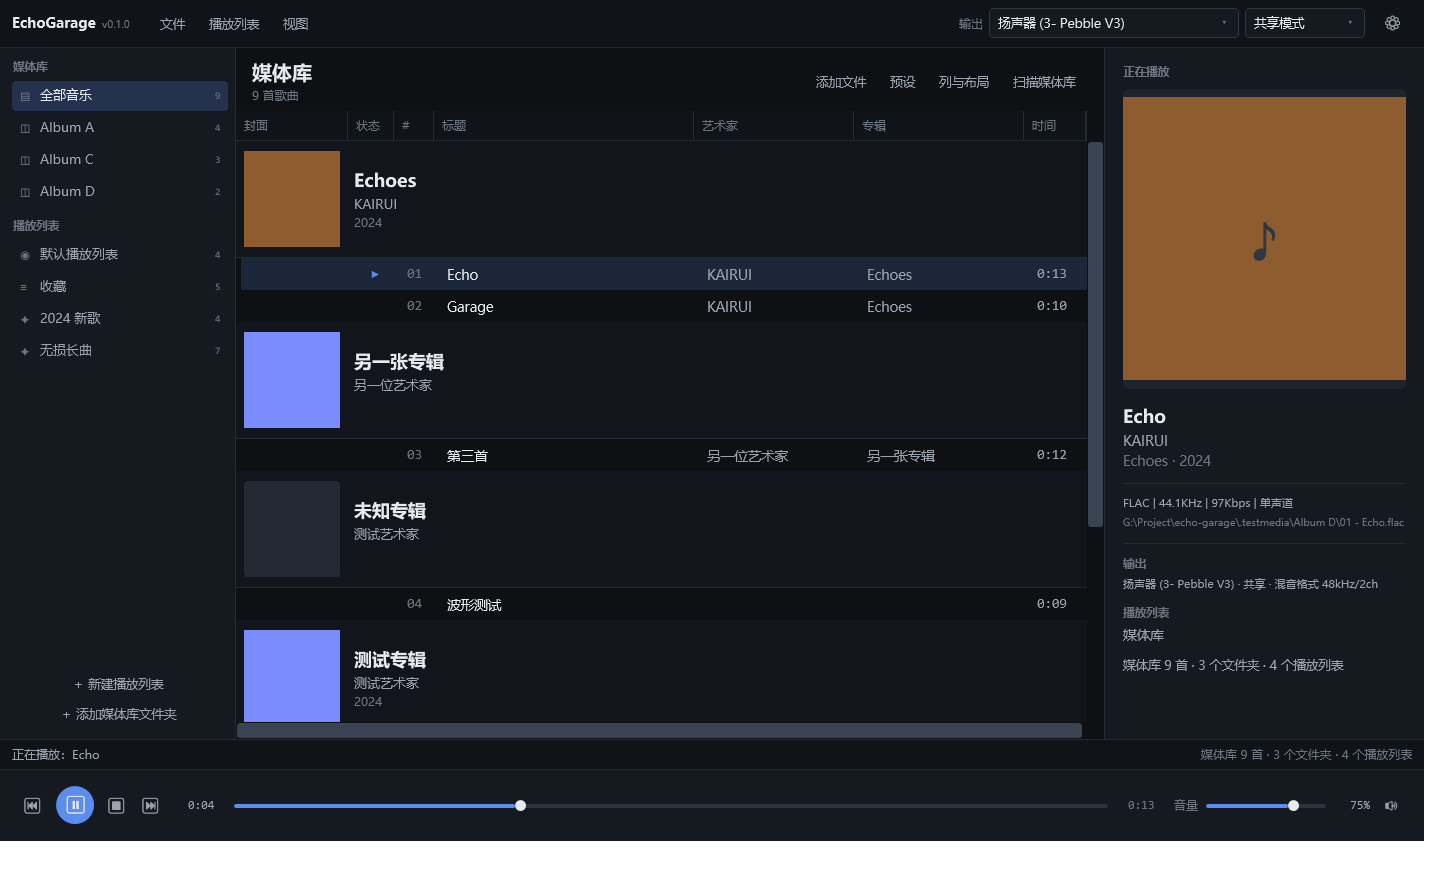
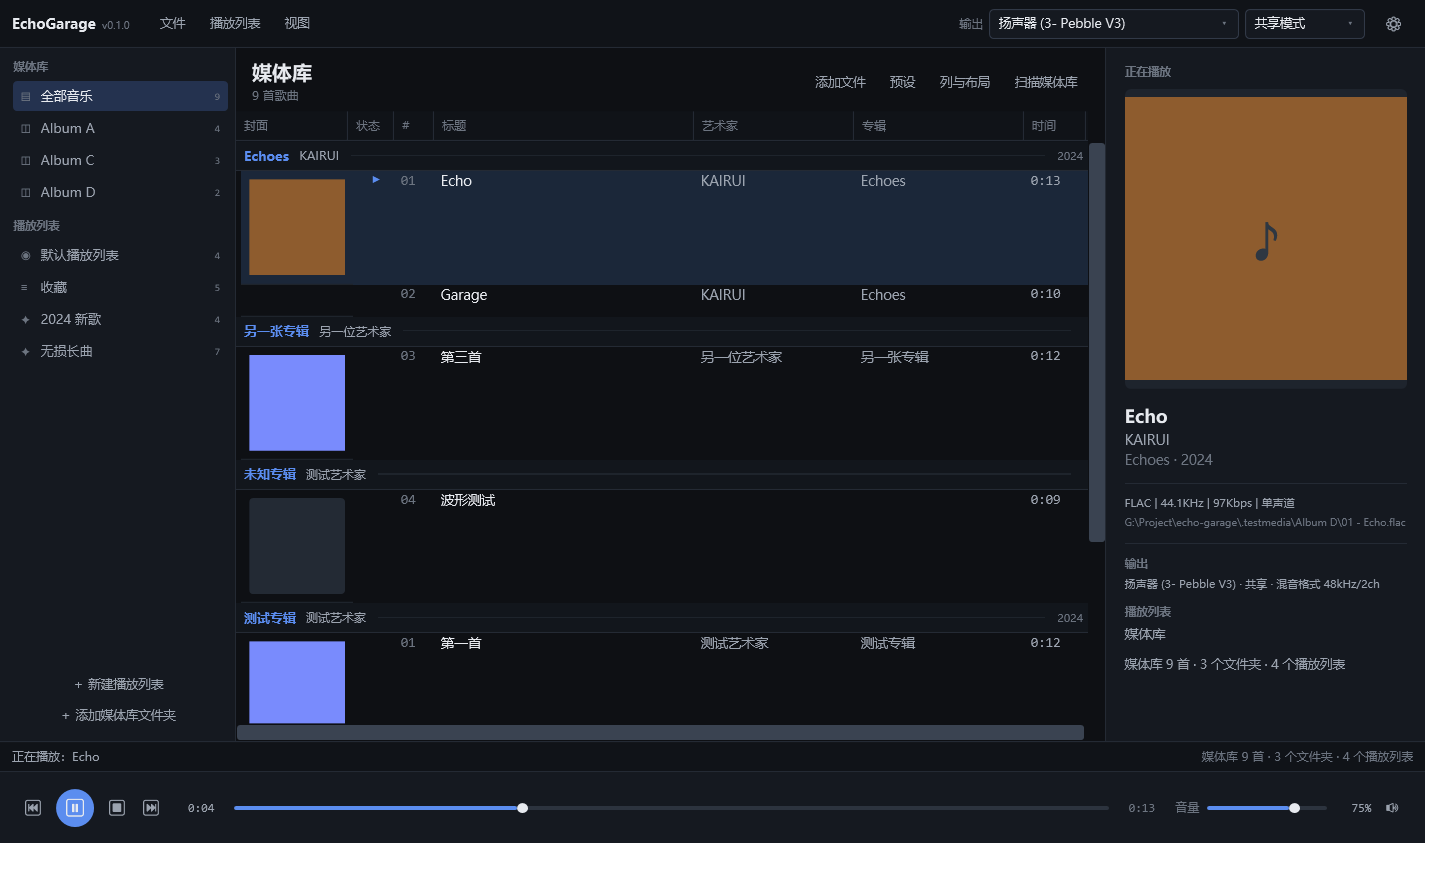
feat: 分组列表改为单行专辑头 + 封面与歌曲列表并列 + 行分割线
- 分组头压缩为 30px 单行：专辑名（Accent）/ 专辑艺术家 / 分隔线 / 年份（右对齐），
  不再在头部放封面，信息密度更高。
- 封面移到每个专辑第一行歌曲的“封面”格（IsAlbumGroupStart）：该行高度 =
  GroupCoverSize + 17，封面与歌曲列表并列，其余行仍为 32px；封面列使用
  Cell.CoverGrouped + GroupCoverCell（Padding=0），大图 512px 解码、卸载时释放。
- 分组头与普通行之间不再有 96px 封面块，分组标题一行即可看清专辑信息。
- 歌曲之间增加 1px 浅色分割线（DataGridCell 底边，主题令牌 RowSeparatorBrush，
  浅色/深色各一套），分组头保留 1px 分隔线。
- README / KB-008 同步新布局说明；更新 main/dark 截图。

diff --git a/src/EchoGarage.App/Views/MainWindow.xaml b/src/EchoGarage.App/Views/MainWindow.xaml
@@ -28,6 +28,29 @@
             </Border>
         </DataTemplate>
 
+        <!-- Grouped mode: the first row of each album is taller and carries the album cover,
+             so the cover sits beside the song list instead of in the group header. -->
+        <DataTemplate x:Key="Cell.CoverGrouped">
+            <Border x:Name="Cover"
+                    Width="{Binding DataContext.GroupCoverSize, RelativeSource={RelativeSource AncestorType=Window}}"
+                    Height="{Binding DataContext.GroupCoverSize, RelativeSource={RelativeSource AncestorType=Window}}"
+                    Margin="8" CornerRadius="4" Background="{DynamicResource CoverPlaceholderBrush}"
+                    ClipToBounds="True" HorizontalAlignment="Left" VerticalAlignment="Center"
+                    Visibility="Collapsed">
+                <Image Source="{Binding GroupCoverImage}" Stretch="UniformToFill"
+                       RenderOptions.BitmapScalingMode="HighQuality" />
+            </Border>
+            <DataTemplate.Triggers>
+                <DataTrigger Binding="{Binding IsAlbumGroupStart}" Value="True">
+                    <Setter TargetName="Cover" Property="Visibility" Value="Visible" />
+                </DataTrigger>
+            </DataTemplate.Triggers>
+        </DataTemplate>
+
+        <Style x:Key="GroupCoverCell" TargetType="DataGridCell" BasedOn="{StaticResource {x:Type DataGridCell}}">
+            <Setter Property="Padding" Value="0" />
+        </Style>
+
         <DataTemplate x:Key="Cell.Status">
             <TextBlock Text="{Binding StatusGlyph}" Foreground="{DynamicResource AccentBrush}" FontSize="10"
                        HorizontalAlignment="Center" />
@@ -354,28 +377,31 @@
                         <GroupStyle>
                             <GroupStyle.HeaderTemplate>
                                 <DataTemplate>
-                                    <Border Background="{DynamicResource GroupHeaderBackgroundBrush}" BorderBrush="{DynamicResource BorderBrush}"
-                                            BorderThickness="0,0,0,1" Padding="8,10" Loaded="OnGroupHeaderLoaded"
-                                            Unloaded="OnGroupHeaderUnloaded">
-                                        <StackPanel Orientation="Horizontal">
-                                            <Border Width="{Binding DataContext.GroupCoverSize, RelativeSource={RelativeSource AncestorType=Window}}"
-                                                    Height="{Binding DataContext.GroupCoverSize, RelativeSource={RelativeSource AncestorType=Window}}"
-                                                    CornerRadius="4" Background="{DynamicResource CoverPlaceholderBrush}"
-                                                    ClipToBounds="True" Margin="0,0,14,0">
-                                                <Image Source="{Binding Items[0].GroupCoverImage}" Stretch="UniformToFill"
-                                                       RenderOptions.BitmapScalingMode="HighQuality" />
-                                            </Border>
-                                            <StackPanel VerticalAlignment="Center">
-                                                <TextBlock Text="{Binding Items[0].AlbumGroupTitle}" FontSize="18"
-                                                           FontWeight="SemiBold" TextTrimming="CharacterEllipsis" />
-                                                <TextBlock Text="{Binding Items[0].AlbumGroupArtist}"
-                                                           Foreground="{DynamicResource TextSecondaryBrush}" FontSize="13"
-                                                           Margin="0,4,0,0" TextTrimming="CharacterEllipsis" />
-                                                <TextBlock Text="{Binding Items[0].AlbumGroupYear}"
-                                                           Foreground="{DynamicResource TextMutedBrush}" FontSize="12"
-                                                           Margin="0,2,0,0" />
-                                            </StackPanel>
-                                        </StackPanel>
+                                    <Border Background="{DynamicResource GroupHeaderBackgroundBrush}"
+                                            BorderBrush="{DynamicResource BorderBrush}"
+                                            BorderThickness="0,0,0,1" Padding="8,0" Height="30">
+                                        <Grid>
+                                            <Grid.ColumnDefinitions>
+                                                <ColumnDefinition Width="Auto" />
+                                                <ColumnDefinition Width="Auto" />
+                                                <ColumnDefinition Width="*" />
+                                                <ColumnDefinition Width="Auto" />
+                                            </Grid.ColumnDefinitions>
+                                            <TextBlock Grid.Column="0" Text="{Binding Items[0].AlbumGroupTitle}"
+                                                       FontSize="13" FontWeight="SemiBold"
+                                                       Foreground="{DynamicResource AccentBrush}"
+                                                       VerticalAlignment="Center" TextTrimming="CharacterEllipsis" />
+                                            <TextBlock Grid.Column="1" Text="{Binding Items[0].AlbumGroupArtist}"
+                                                       Foreground="{DynamicResource TextSecondaryBrush}" FontSize="12"
+                                                       Margin="10,0,0,0" VerticalAlignment="Center"
+                                                       TextTrimming="CharacterEllipsis" />
+                                            <Border Grid.Column="2" Height="1" Margin="12,0"
+                                                    Background="{DynamicResource RowSeparatorBrush}"
+                                                    VerticalAlignment="Center" />
+                                            <TextBlock Grid.Column="3" Text="{Binding Items[0].AlbumGroupYear}"
+                                                       Foreground="{DynamicResource TextMutedBrush}" FontSize="11"
+                                                       VerticalAlignment="Center" />
+                                        </Grid>
                                     </Border>
                                 </DataTemplate>
                             </GroupStyle.HeaderTemplate>

diff --git a/src/EchoGarage.App/Resources/Controls.xaml b/src/EchoGarage.App/Resources/Controls.xaml
@@ -598,18 +598,26 @@
             <DataTrigger Binding="{Binding IsMissing}" Value="True">
                 <Setter Property="Opacity" Value="0.55" />
             </DataTrigger>
+            <DataTrigger Binding="{Binding IsAlbumGroupStart}" Value="True">
+                <!-- Taller row whose cover cell carries the album art next to the song list. -->
+                <Setter Property="Height"
+                        Value="{Binding DataContext.GroupCoverRowHeight, RelativeSource={RelativeSource AncestorType=DataGrid}}" />
+            </DataTrigger>
         </Style.Triggers>
     </Style>
 
     <Style TargetType="DataGridCell">
         <Setter Property="Background" Value="Transparent" />
         <Setter Property="BorderThickness" Value="0" />
+        <Setter Property="Padding" Value="8,0" />
         <Setter Property="Foreground" Value="{DynamicResource TextPrimaryBrush}" />
         <Setter Property="FocusVisualStyle" Value="{x:Null}" />
         <Setter Property="Template">
             <Setter.Value>
                 <ControlTemplate TargetType="DataGridCell">
-                    <Border Background="{TemplateBinding Background}" Padding="8,0" SnapsToDevicePixels="True">
+                    <Border Background="{TemplateBinding Background}" Padding="{TemplateBinding Padding}"
+                            BorderBrush="{DynamicResource RowSeparatorBrush}" BorderThickness="0,0,0,1"
+                            SnapsToDevicePixels="True">
                         <ContentPresenter VerticalAlignment="Center" />
                     </Border>
                 </ControlTemplate>

diff --git a/src/EchoGarage.App/Resources/Themes/DarkTheme.xaml b/src/EchoGarage.App/Resources/Themes/DarkTheme.xaml
@@ -24,6 +24,7 @@
     <SolidColorBrush x:Key="PanelAltBackgroundBrush" Color="{StaticResource PanelAltBackgroundColor}" />
     <SolidColorBrush x:Key="HeaderBackgroundBrush" Color="{StaticResource HeaderBackgroundColor}" />
     <SolidColorBrush x:Key="BorderBrush" Color="{StaticResource BorderColor}" />
+    <SolidColorBrush x:Key="RowSeparatorBrush" Color="#1E242C" />
     <SolidColorBrush x:Key="BorderStrongBrush" Color="{StaticResource BorderStrongColor}" />
     <SolidColorBrush x:Key="TextPrimaryBrush" Color="{StaticResource TextPrimaryColor}" />
     <SolidColorBrush x:Key="TextSecondaryBrush" Color="{StaticResource TextSecondaryColor}" />

diff --git a/src/EchoGarage.App/Resources/Themes/LightTheme.xaml b/src/EchoGarage.App/Resources/Themes/LightTheme.xaml
@@ -23,6 +23,7 @@
     <SolidColorBrush x:Key="PanelAltBackgroundBrush" Color="{StaticResource PanelAltBackgroundColor}" />
     <SolidColorBrush x:Key="HeaderBackgroundBrush" Color="{StaticResource HeaderBackgroundColor}" />
     <SolidColorBrush x:Key="BorderBrush" Color="{StaticResource BorderColor}" />
+    <SolidColorBrush x:Key="RowSeparatorBrush" Color="#EDF0F4" />
     <SolidColorBrush x:Key="BorderStrongBrush" Color="{StaticResource BorderStrongColor}" />
     <SolidColorBrush x:Key="TextPrimaryBrush" Color="{StaticResource TextPrimaryColor}" />
     <SolidColorBrush x:Key="TextSecondaryBrush" Color="{StaticResource TextSecondaryColor}" />

diff --git a/src/EchoGarage.App/Views/MainWindow.xaml.cs b/src/EchoGarage.App/Views/MainWindow.xaml.cs
@@ -221,15 +221,16 @@ public partial class MainWindow : Window
                 continue;
             }
 
-            var cellTemplate = TryFindResource("Cell." + ToPascalCase(column.Key)) as DataTemplate;
+            var isGroupedCover = _vm.GroupByAlbum &&
+                                 string.Equals(column.Key, "cover", StringComparison.OrdinalIgnoreCase);
+            var templateKey = isGroupedCover ? "Cell.CoverGrouped" : "Cell." + ToPascalCase(column.Key);
+            var cellTemplate = TryFindResource(templateKey) as DataTemplate;
             if (cellTemplate is null)
             {
                 continue;
             }
 
             SortPropertyMap.TryGetValue(column.Key, out var sortProperty);
-            var isGroupedCover = _vm.GroupByAlbum &&
-                                 string.Equals(column.Key, "cover", StringComparison.OrdinalIgnoreCase);
             // The cover column carries the album cover plus equal left/right insets so the
             // cover lines up with the column header padding instead of spilling over the
             // column divider.
@@ -251,7 +252,8 @@ public partial class MainWindow : Window
                     : 1400,
                 SortMemberPath = sortProperty,
                 CanUserSort = descriptor.Sortable && sortProperty is not null,
-                IsReadOnly = true
+                IsReadOnly = true,
+                CellStyle = isGroupedCover ? TryFindResource("GroupCoverCell") as Style : null
             };
 
             if (sortProperty is not null &&
@@ -438,9 +440,16 @@ public partial class MainWindow : Window
         if (e.Row.DataContext is TrackRowViewModel row)
         {
             row.IsSelected = TrackGrid.SelectedItems.Contains(row);
-            if (!_vm.GroupByAlbum)
+            if (_vm.GroupByAlbum)
             {
-                // Grouped mode shows one large album cover and hides the per-row cover.
+                // Grouped mode: only the first row of an album shows the (large) cover.
+                if (row.IsAlbumGroupStart)
+                {
+                    _ = _vm.LoadGroupCoverAsync(row);
+                }
+            }
+            else
+            {
                 _ = _vm.LoadRowCoverAsync(row);
             }
         }
@@ -451,32 +460,7 @@ public partial class MainWindow : Window
         if (e.Row.DataContext is TrackRowViewModel row)
         {
             row.CoverImage = null;
-        }
-    }
-
-    private void OnGroupHeaderLoaded(object sender, RoutedEventArgs e)
-    {
-        if (sender is FrameworkElement { DataContext: CollectionViewGroup group })
-        {
-            var first = group.Items.OfType<TrackRowViewModel>().FirstOrDefault();
-            if (first is not null)
-            {
-                _ = _vm.LoadGroupCoverAsync(first);
-            }
-        }
-    }
-
-    private void OnGroupHeaderUnloaded(object sender, RoutedEventArgs e)
-    {
-        // Release the large header cover while the group is virtualized away; it will be
-        // reloaded from the bounded image cache when the header becomes visible again.
-        if (sender is FrameworkElement { DataContext: CollectionViewGroup group })
-        {
-            var first = group.Items.OfType<TrackRowViewModel>().FirstOrDefault();
-            if (first is not null)
-            {
-                first.GroupCoverImage = null;
-            }
+            row.GroupCoverImage = null;
         }
     }
 

diff --git a/src/EchoGarage.App/ViewModels/MainViewModel.cs b/src/EchoGarage.App/ViewModels/MainViewModel.cs
@@ -126,8 +126,15 @@ public sealed partial class MainViewModel : ObservableObject, IDisposable
     [ObservableProperty]
     private double _groupCoverSize = PlaylistViewLayout.DefaultGroupCoverSize;
 
-    partial void OnGroupCoverSizeChanged(double value) =>
+    /// <summary>Height of the first row of an album group: cover size plus 8px top/bottom
+    /// margins and the cell's 1px bottom separator.</summary>
+    public double GroupCoverRowHeight => GroupCoverSize + 17;
+
+    partial void OnGroupCoverSizeChanged(double value)
+    {
+        OnPropertyChanged(nameof(GroupCoverRowHeight));
         _host.Logger.Debug($"Group cover size: {value:F1}");
+    }
 
     partial void OnCurrentLayoutChanged(PlaylistViewLayout value)
     {
@@ -603,6 +610,34 @@ public sealed partial class MainViewModel : ObservableObject, IDisposable
         }
 
         _tracksView.Refresh();
+        UpdateAlbumGroupStarts();
+    }
+
+    /// <summary>
+    /// Marks the first row of each album group. That row is taller and renders the album
+    /// cover in its cover cell, so the cover sits beside the song list instead of inside
+    /// the group header (group headers are now a single compact line).
+    /// </summary>
+    private void UpdateAlbumGroupStarts()
+    {
+        foreach (var row in Tracks)
+        {
+            row.IsAlbumGroupStart = false;
+        }
+
+        if (!GroupByAlbum)
+        {
+            return;
+        }
+
+        foreach (var group in _tracksView.Groups)
+        {
+            if (group is CollectionViewGroup { Items.Count: > 0 } viewGroup &&
+                viewGroup.Items[0] is TrackRowViewModel first)
+            {
+                first.IsAlbumGroupStart = true;
+            }
+        }
     }
 
     partial void OnGroupByAlbumChanged(bool value)

diff --git a/src/EchoGarage.App/ViewModels/TrackRowViewModel.cs b/src/EchoGarage.App/ViewModels/TrackRowViewModel.cs
@@ -28,6 +28,10 @@ public sealed partial class TrackRowViewModel : ObservableObject
     [ObservableProperty]
     private bool _isSelected;
 
+    /// <summary>True for the first visible row of an album group (it carries the album cover).</summary>
+    [ObservableProperty]
+    private bool _isAlbumGroupStart;
+
     public TrackRowViewModel(Track track, int rowNumber)
     {
         Track = track;

diff --git a/docs/kb/KB-008-grouped-cover-and-layout-persistence.md b/docs/kb/KB-008-grouped-cover-and-layout-persistence.md
@@ -1,35 +1,33 @@
-# KB-008：分组封面尺寸、布局持久化、进度条空状态与音量/静音
+# KB-008：分组列表布局（封面+单行标签+分割线）、布局持久化、进度条空状态与音量/静音
 
 - 状态：已批准（Accepted，2026-11-10，owner 指示记录为 KB，不需要 ADR；2026-11-11 更新）
 - 日期：2026-11-10
 - 关联：ADR-005（播放列表显示格式）、ADR-006（配置与媒体库分离）
-- 适用范围：`PlaylistViewLayout`、`MainWindow` 列构建与分组头、底部进度条与音量区
+- 适用范围：`PlaylistViewLayout`、`MainWindow` 列构建 / 分组头 / 行模板、底部进度条与音量区
 
-## 1. 分组封面尺寸（GroupCoverSize）
+## 1. 分组列表布局（v2：单行标签 + 封面与歌曲列表并列）
 
-- `PlaylistViewLayout` 增加 `GroupCoverSize`（double，默认 96，范围 48–320），表示**实际显示的
-  封面边长**，随布局一起序列化：媒体库视图存 `settings.json` 的 `libraryLayout`，普通播放列表
-  存各自 `ViewLayoutJson`；旧 JSON 没有该字段时按 96 处理（`ViewLayoutFactory.Normalize` 里
-  `<= 0` 视为缺失，超出范围则 clamp）。
-- 分组模式下封面列宽 = `GroupCoverSize + 16`（左右各 8px 内边距）；列的最小 / 最大宽度相应为
-  64 / 336。拖动表头右缘时 `GroupCoverSize = 列宽 - 16`。该值**不写回**普通模式下的封面列宽，
-  取消分组后逐行封面仍用原列宽（行内图片固定 24px，与行高 32px 匹配）。
-- 对齐：分组头模板 `Padding="8,10"`，与 `DataGridColumnHeader` 的 `Padding="8,0"` 一致，因此
-  封面在封面列内的左右留白相等，正好和“封面”表头文字对齐，右缘不会越过分栏线。
-- 实时联动：`MainWindow` 用 `DependencyPropertyDescriptor.FromProperty(DataGridColumn.WidthProperty, ...)`
-  监听封面列的宽度变化，写入 `MainViewModel.GroupCoverSize`（ObservableProperty）；
-  分组头模板的封面 `Border` 通过
-  `{Binding DataContext.GroupCoverSize, RelativeSource={RelativeSource AncestorType=Window}}`
-  绑定宽高，所以拖动时封面跟手变化。
-- 持久化：拖动停下后 600ms 防抖调用 `PersistCurrentLayout(CaptureLayoutFromGrid())`；
-  `CaptureLayoutFromGrid` 在分组模式下把 `封面列 ActualWidth - 16` 写进 `GroupCoverSize`，
-  普通列宽照旧。关闭窗口 / 切换播放列表仍走原有保存路径。
-- 列与布局对话框只编辑列，`GroupCoverSize` 原样透传；应用预设时保留当前值（预设不包含
-  封面尺寸，`ColumnPreset` 未增加字段）。
-- 分组头封面单独解码：`TrackRowViewModel.GroupCoverImage` 以 512px 请求
-  （`CoverImageService` 按 `尺寸|coverKey` 缓存，LRU 300），在 320 DIP、150% DPI 下仍清晰；
-  分组头虚拟化卸载时（模板根 `Border.Unloaded`）清空引用，避免滚过所有专辑后大图常驻。
-- 注意：封面调大后列总宽可能超过窗口，出现横向滚动条属正常；用户可加宽窗口或隐藏其他列。
+用户反馈旧分组头“封面 96px + 标题/艺术家/年份 3 行堆叠”信息密度太低，目标是：
+
+- 分组头只占一行：专辑名（Accent 色、SemiBold）+ 专辑艺术家 + 分隔线 + 年份（右对齐），
+  高 30px，底部 1px 分割线；不再在分组头里放封面。
+- 封面放到该专辑**第一行歌曲**的“封面”格中，与歌曲列表并列。该行高度 =
+  `GroupCoverSize + 17`（上下各 8px 边距 + 1px 底部分割线），其余行仍为 32px；
+  这样封面在视觉上位于分组标题下方、紧挨歌曲列表，而不是把整块头部撑高。
+- 实现：`MainViewModel.ApplySortAndGrouping()` 每次刷新后调用
+  `UpdateAlbumGroupStarts()`，遍历 `_tracksView.Groups` 把每组第一行的
+  `TrackRowViewModel.IsAlbumGroupStart` 置 true；`Controls.xaml` 的 `DataGridRow`
+  样式用 `DataTrigger` 命中该属性，把行高绑定到 `GroupCoverRowHeight`。
+- 封面列在分组模式下使用 `Cell.CoverGrouped` 模板（`IsAlbumGroupStart` 时显示
+  `GroupCoverImage`，尺寸 512px 解码）；`GroupCoverCell` 样式把 Cell 的 Padding 设为 0，
+  封面 Border `Margin="8"` 正好落在“封面”列内。
+- 封面尺寸仍由“封面”列宽驱动：`GroupCoverSize` 表示封面实际显示尺寸，
+  列宽 = `GroupCoverSize + 16`（左右各 8px 内边距）；拖动列宽时
+  `GroupCoverSize = 列宽 - 16`。范围 48–320，随播放列表布局持久化。
+- 歌曲之间加 1px 浅色分割线：`DataGridCell` 模板的 Border 使用
+  `BorderBrush="{DynamicResource RowSeparatorBrush}" BorderThickness="0,0,0,1"`；
+  `RowSeparatorBrush` 在两个主题字典中分别定义（浅色 `#EDF0F4`、深色 `#1E242C`）。
+- 封面调大后列总宽可能超过窗口，出现横向滚动条属正常。
 
 ## 2. 启动时布局被默认值覆盖的坑
 
@@ -53,15 +51,14 @@
   绑定它；空闲时 `Maximum=1, Value=0`，Thumb 在最左侧、轨道为空。`DurationSeconds` 变化时
   手动通知 `SeekMaximum`。
 - 同时把进度条 `IsEnabled` 绑定到 `HasCurrentTrack`，无播放时不可拖动（避免拖动 Thumb 把
-  `Value` 的 OneWay 绑定顶掉）；Slider 样式补了 `IsEnabled=False` 时 `Opacity=0.45`，
-  空状态一眼可辨。
+  `Value` 的 OneWay 绑定顶掉）；Slider 样式补了 `IsEnabled=False` 时 `Opacity=0.45`。
 
 ## 4. 音量百分比与静音状态
 
 - 滑块右侧显示 `VolumeText`：未静音显示四舍五入百分比（如 `70%`），静音时显示“静音”。
 - 静音按钮：`Content` 绑定 `MuteGlyph`（🔊 / 🔇）、`ToolTip` 绑定 `MuteToolTip`
   （静音 / 取消静音）；按钮样式带 `DataTrigger`，`IsMuted=True` 时背景用
-  `AccentSoftBrush`、前景用 `AccentBrush`，状态一眼可见。
+  `AccentSoftBrush`、前景用 `AccentBrush`。
 - `IsMuted` 只是会话状态，不写入 `settings.json`（`Volume` 仍持久化）；静音时
   `Player.Volume=0`，取消静音恢复 `Volume/100`。
 - 相关 `AutomationId`：`VolumeSlider`、`VolumeText`、`MuteButton`，方便 UI 自动化验证。
@@ -70,8 +67,9 @@
 
 - 单元测试：`ViewLayoutTests.Normalize_ClampsGroupedCoverSize_AndRoundTrips`（默认值 / clamp /
   序列化 / Clone）。
-- UI：`--screenshot` 分别截默认 96px 和拖动后 176px 的分组封面，检查封面左右留白相等、
-  与“封面”表头对齐且不越过分栏线；截无播放时的进度条，确认 Thumb 在最左侧、轨道为空。
-- 静音状态截图确认“静音”文字 + 高亮按钮；重启后 `libraryLayout.groupCoverSize` 保持。
-- 鼠标拖拽用 UI Automation 定位表头 `Thumb` 后 `SetCursorPos + mouse_event` 模拟，
-  拖完读 `settings.json` 确认保存。
+- UI：`--screenshot` 截分组布局（浅色 / 深色）：分组头单行、封面在第一行歌曲左侧、
+  行间 1px 分割线；拖动封面列后重启检查 `libraryLayout.groupCoverSize` 保持。
+- UI Automation 读行高：分组首行应为 `GroupCoverSize + 17`，其余 32；调度行文本位置确认
+  封面与歌曲同排。
+- 无播放进度条截图确认 Thumb 在最左侧、轨道为空；播放中用真实鼠标点击跳转并检查
+  `Seeked to` 日志。

diff --git a/README.md b/README.md
@@ -51,7 +51,8 @@ EchoGarage 是一个面向个人使用的 Windows 本地音乐播放器，目标
 - 文件被删除或移动后，播放列表中的条目会以半透明显示并在悬停时提示，双击会提示文件不存在。
 - 显示格式按播放列表分别记忆：列的显示 / 隐藏、宽度、顺序、排序列与升降序；可保存为全局预设并快速套用
   （表头旁的“预设”按钮可直接切换），媒体库视图有独立的显示格式。
-- 按专辑分组时，封面只在专辑标题旁显示一次；拖动“封面”列宽即可调整专辑封面大小（48–320px，按播放列表分别记忆），取消分组则恢复逐行封面。
+- 按专辑分组时：分组标题压缩为一行（专辑 / 专辑艺术家 / 年份 + 分隔线），封面显示在该专辑第一行歌曲左侧、与歌曲列表并列；拖动“封面”列宽即可调整封面大小（48–320px，按播放列表分别记忆），取消分组则恢复逐行小封面。
+- 歌曲之间显示 1px 浅色分割线；分组头与行分割线都使用主题令牌，深色 / 浅色主题一致。
 
 ### 快捷键
 
